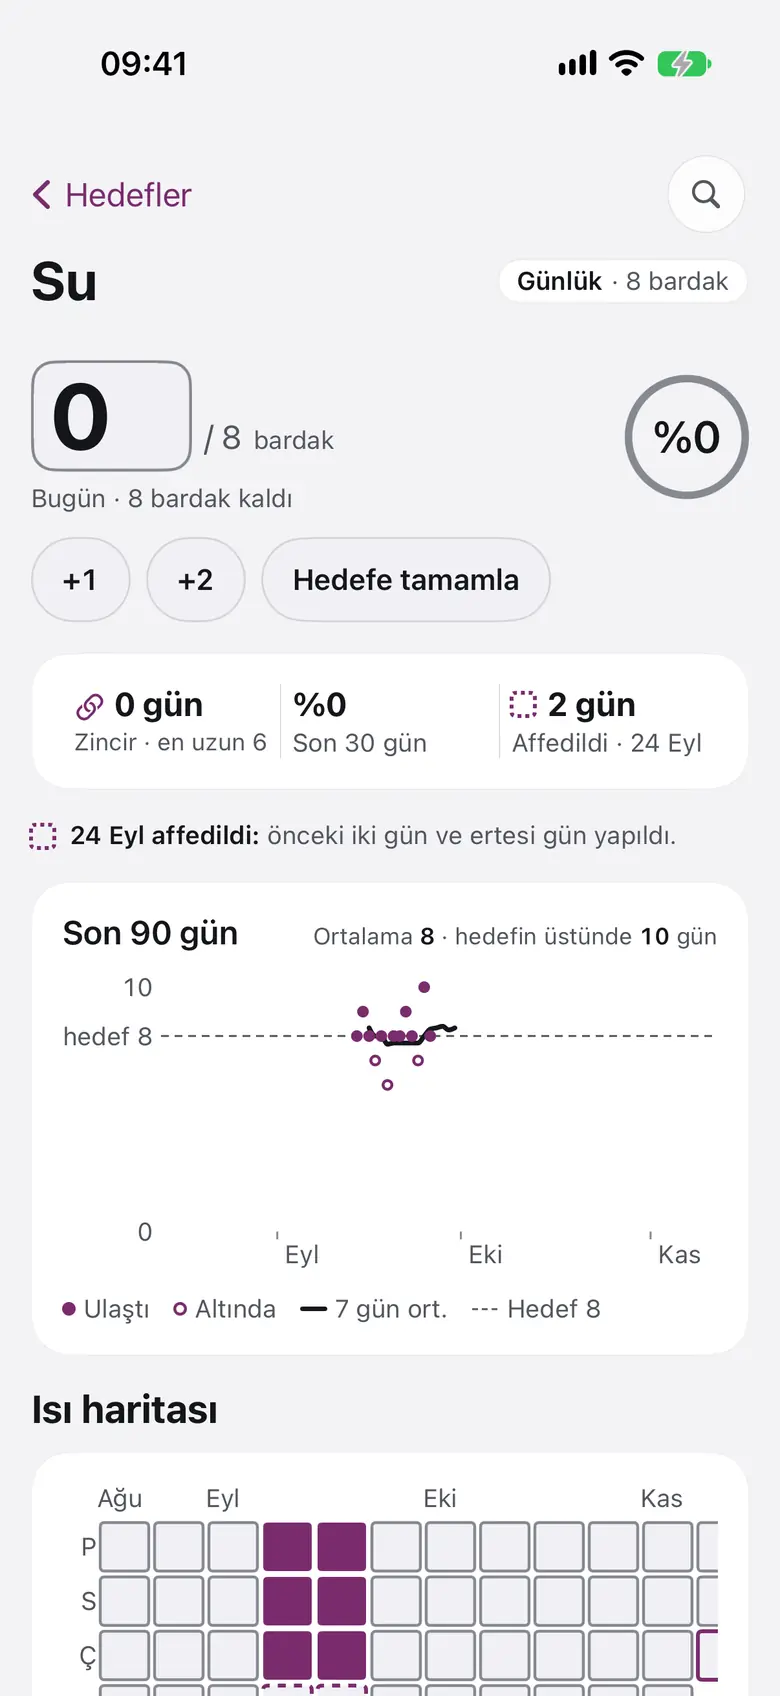
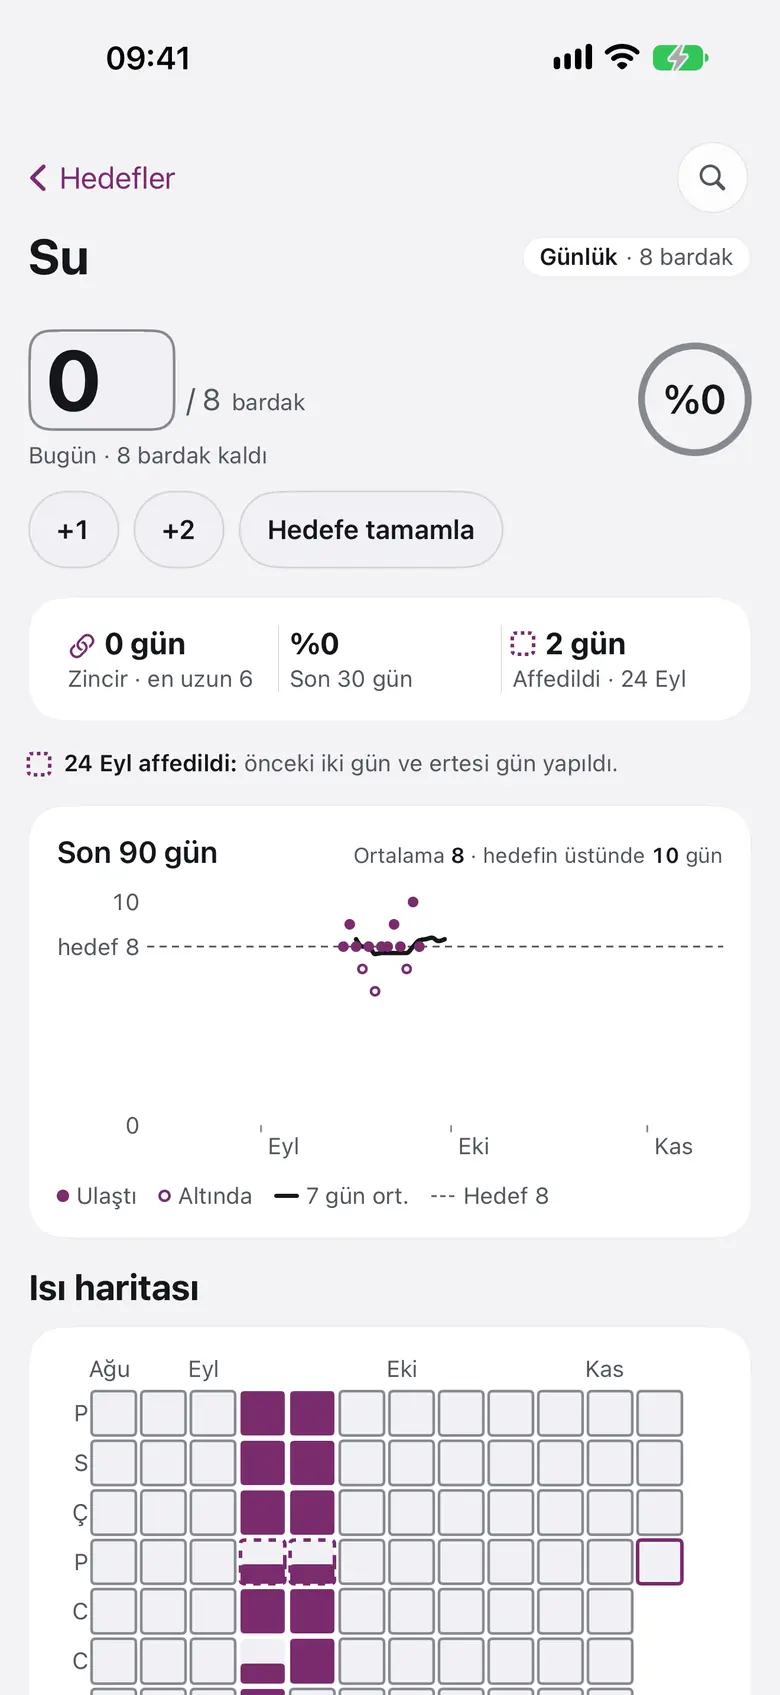
feat: mağaza turu ekranları ve OG kartı yenilendi
Phone and iPad screens now come from the screen-tour.sh --store run
(kenet dev f96cca4d): 6.9in iPhone 1320x2868 and 13in iPad, clock 9:41.
The phone frame ratio follows the new capture. The iPad keeps the person
page because the Today shot shows the calendar permission band.

diff --git a/src/components/home/device-frame.tsx b/src/components/home/device-frame.tsx
@@ -21,7 +21,7 @@ type DeviceFrameProps = {
 
 /**
  * Intrinsic sizes in CSS px; keep in step with scripts/optimize-screens.mjs.
- * Phone: full 1206×2622 capture at 780 px wide, uncropped (status bar and
+ * Phone: full 1320×2868 capture at 780 px wide, uncropped (status bar and
  * tab bar stay). Tablet: landscape iPad capture with the status bar and the
  * resize-handle strip cropped, 1600×1130.
  */
@@ -38,8 +38,8 @@ const SIZES: Record<
 > = {
   phone: {
     width: 390,
-    height: 848,
-    aspect: "aspect-[390/848]",
+    height: 847,
+    aspect: "aspect-[1320/2868]",
     shell: "rounded-[44px] p-2 sm:rounded-[54px]",
     screen: "rounded-[36px] sm:rounded-[46px]",
     sizes: "(max-width: 1023px) 260px, 340px",

diff --git a/docs/pages.md b/docs/pages.md
@@ -25,7 +25,7 @@ anlatmak yerine gösterir. Bölüm başlığı kalıbı: küçük etiket `p` ve 
 | 5 | Kasa | h2 "Obsidian ile aynı kasa. Dışa aktarma yok." Tek kart iki sütun: klasör ağacı ve gün dosyası örneği (`kenet/docs/vault-format.md` örneğinin dile göre kısaltılmışı, blok kimlikli; Obsidian Tasks emoji'leri dosyanın parçası). Altında "SQLite yalnız indekstir; gerçek kaynak bu dosyalar." |
 | 6 | Kapanış | Kart yok, üstte `rule`: solda "iPhone, iPad ve Mac için." (32 px `p`), altında "Veri düz Markdown dosyaları olarak hep senin." ve "Uygulama veri toplamaz, bu site çerez kullanmaz. Gizlilik politikası" (bağlantı), sağda mağaza girişi (telefonda alt alta). En altta "Platform durumu" etiketi ve üç satır (`sm` ve üstünde üç sütun): iPhone ve iPad ilk sürümle, Mac sonra, arayüz dili. Ana sayfada SSS yok: sorular `/destek` SSS'sinde tek kopya kalır |
 
-Görseller `public/screens/*.webp` (kaynak `.local/kaynak-ekranlar/` altındaki Kenet arayüz turları, gitignore'lu; `node scripts/optimize-screens.mjs [kaynak kökü]`). Telefonlar `k5-iphone` turundan 1206×2622 kaynaktan kırpılmadan 780×1696; iPad `tur-fark3birlesik-ipad` turundan EXIF yönüyle yataya çevrilir, üst 56 ve alt 64 px kırpılır, 1600×1130. WebP kalite 75, `effort` 6. Dosyalar: `today`, `person`, `people`, `kanban`, `goal`, `ipad-person`, her biri `-light` ve `-dark`; toplam 588 KB, bir ziyaretçi tek temayı indirir (yaklaşık 294 KB). Hero görseli eager ve yüksek öncelikli, ötekiler lazy yüklenir. Bileşenler `src/components/home/`: `hero`, `mechanism`, `promises`, `promise-icons`, `screens`, `vault`, `closing`, `device-frame`. Testler `tests/pages/home.test.tsx` (çerçeve sayısı, kare başlıkları, `public/screens` ile kullanılan dosyaların birebir eşleşmesi) ve `tests/design/compiled-css.test.ts` (derlenmiş CSS: maske, parıltı yüksekliği, KA ve Saydamlığı Azalt'ta parıltı kapalı).
+Görseller `public/screens/*.webp` (kaynak `.local/kaynak-ekranlar/` altındaki Kenet arayüz turları, gitignore'lu; `node scripts/optimize-screens.mjs [kaynak kökü]`). Kaynak `screen-tour.sh --store` mağaza turu (2026-11-12, kenet dev f96cca4d, `store-261112`), saat 9:41. Telefonlar 6,9" 1320×2868 kaynaktan kırpılmadan 780×1695; iPad 13" kişi sayfası (Bugün karesinde takvim izni bandı olduğu için kullanılmaz) EXIF yönüyle yataya çevrilir, üst 56 ve alt 64 px kırpılır, 1600×1130. WebP kalite 75, `effort` 6. Dosyalar: `today`, `person`, `people`, `kanban`, `goal`, `ipad-person`, her biri `-light` ve `-dark`; toplam 590 KB, bir ziyaretçi tek temayı indirir (yaklaşık 294 KB). Hero görseli eager ve yüksek öncelikli, ötekiler lazy yüklenir. Bileşenler `src/components/home/`: `hero`, `mechanism`, `promises`, `promise-icons`, `screens`, `vault`, `closing`, `device-frame`. Testler `tests/pages/home.test.tsx` (çerçeve sayısı, kare başlıkları, `public/screens` ile kullanılan dosyaların birebir eşleşmesi) ve `tests/design/compiled-css.test.ts` (derlenmiş CSS: maske, parıltı yüksekliği, KA ve Saydamlığı Azalt'ta parıltı kapalı).
 
 ## Gizlilik `/gizlilik`
 

diff --git a/docs/design.md b/docs/design.md
@@ -67,7 +67,7 @@ Kontrast alt sınırları: metin rolleri 4,5:1, kontrol çizgisi 3:1; `tests/des
 | Kabuk bandı | `components/layout/page-section.tsx` | Dikey bant, `page-shell` ile ortalanır (en çok 64 rem) |
 | Sayfa başlığı | `components/layout/page-header.tsx` | h1 40/48 px ve bir paragraf |
 | Bölüm başlığı | `components/layout/section-heading.tsx` | Etiket `p` (13 px ikincil) ve cümle `h2` (28–30 px); bütün sayfalarda |
-| Cihaz çerçevesi | `components/home/device-frame.tsx` | `device="phone"`: 390:848 iç oran (iPhone ekranı kırpılmadan; durum çubuğu ve sekme çubuğu kalır), 44/54 px köşe, 8 px `device-bezel`. `device="tablet"`: yatay iPad, 800:565 iç oran (durum çubuğu ve alttaki pencere tutamağı şeridi kırpılır), 20/32 px köşe, 6/12 px çerçeve. Açık ve koyu görsel `picture` ile; oranlar `scripts/optimize-screens.mjs` ile birlikte değişir |
+| Cihaz çerçevesi | `components/home/device-frame.tsx` | `device="phone"`: 1320:2868 iç oran (iPhone ekranı kırpılmadan; durum çubuğu ve sekme çubuğu kalır), 44/54 px köşe, 8 px `device-bezel`. `device="tablet"`: yatay iPad, 800:565 iç oran (durum çubuğu ve alttaki pencere tutamağı şeridi kırpılır), 20/32 px köşe, 6/12 px çerçeve. Açık ve koyu görsel `picture` ile; oranlar `scripts/optimize-screens.mjs` ile birlikte değişir |
 | Ekran karesi | `components/home/screens.tsx` | Mağaza tarzı kare: `surface` zemin, `rule` sınır, 20 px köşe, 5:7 oran; üstte 17 px yarı kalın kısa başlık ve 13 px ikincil satır, altta telefon karenin alt kenarından taşar ve kırpılır |
 | Üst bilgi | `components/layout/header.tsx` | 68 px satır: marka; sağda iki ayrı yer işareti, sayfalar (`nav-links.tsx`) ve dil |
 | Sayfa bağlantıları | `components/layout/nav-links.tsx` | İstemci bileşeni yalnız `usePathname` için; geçerli sayfaya `aria-current="page"` |
